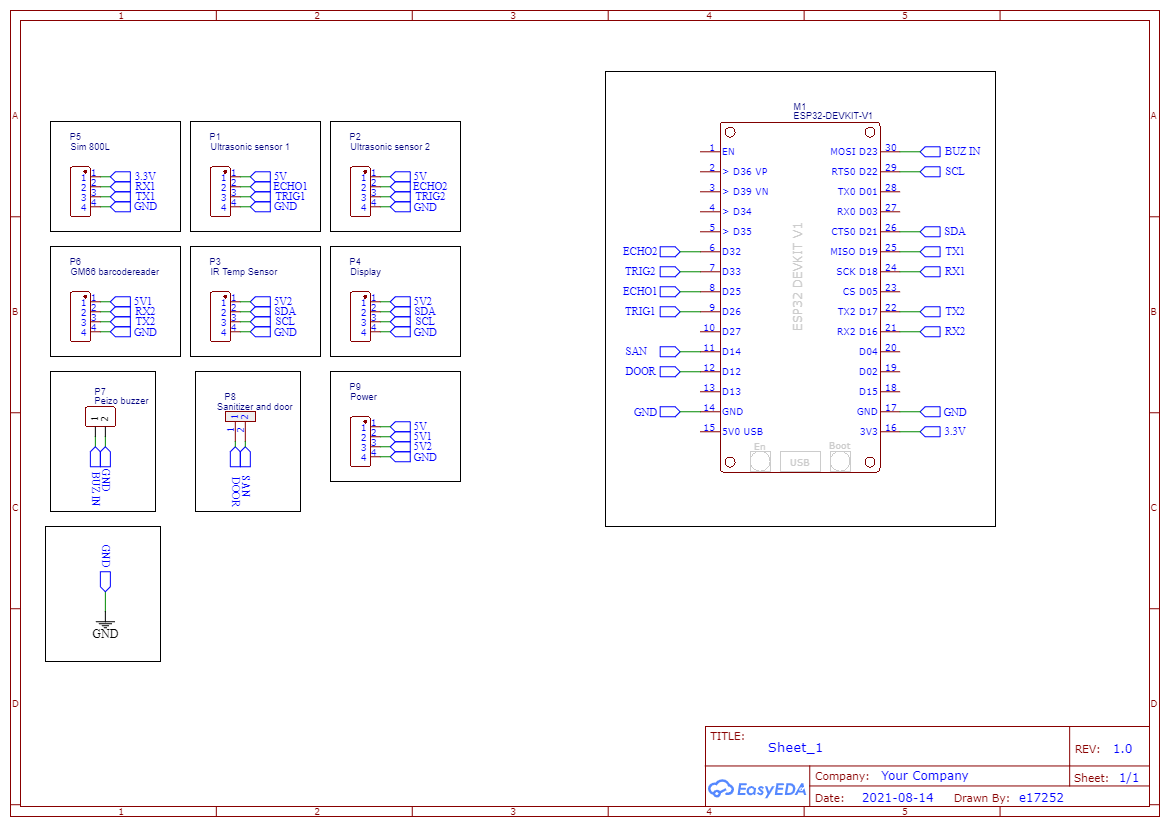
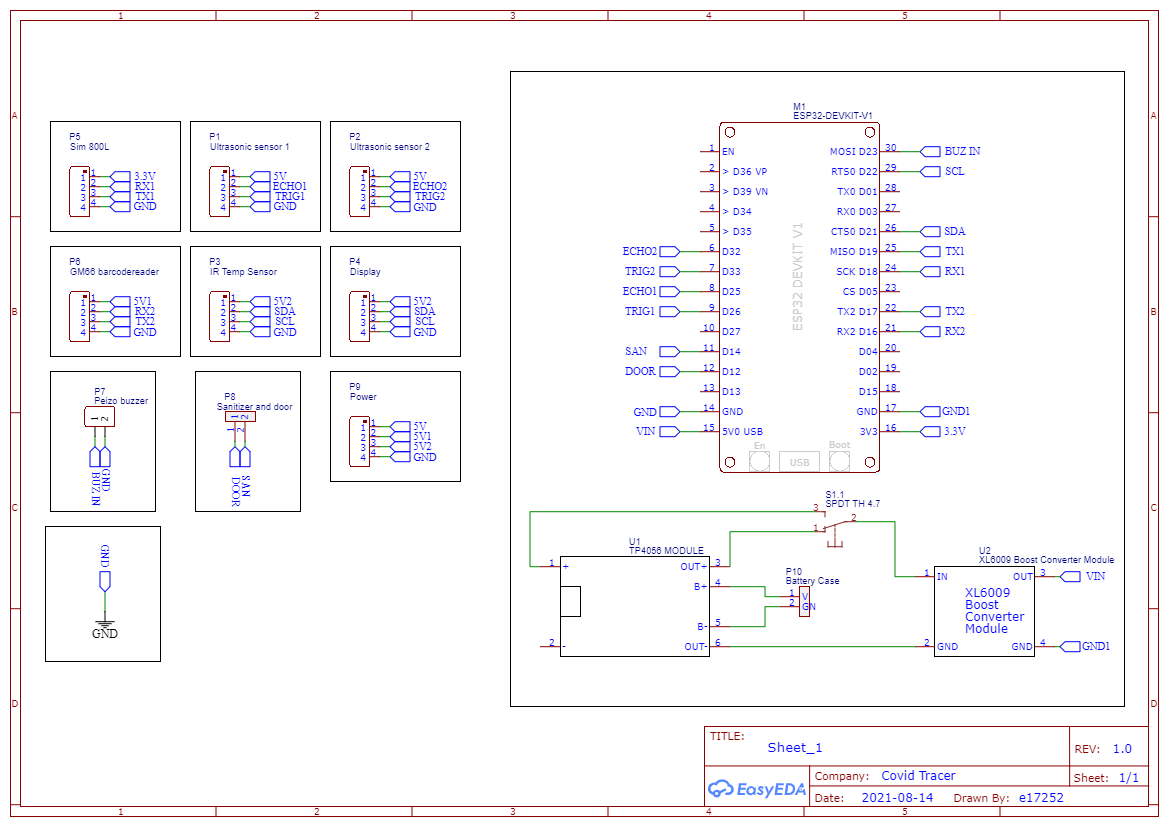
website hardware section updated

diff --git a/docs/hardware.html b/docs/hardware.html
@@ -120,6 +120,33 @@
             <img src="assets/img/solution/circuit.png" alt="world due to covid" class="center-highlevel" />
           </div>      
         </div>
+        <div id ="circuit-diagram" class="row">
+          <div class="well-middle">
+            <h4 class="sec-head"><br>Powr Supply Diagram</h4>
+            <img src="assets/img/solution/power supply circuit diagram.png" alt="world due to covid" class="center-highlevel" />
+            <p>The device works with the dc power supply which is provided by an adapter from the 230V AC current. Usually the device 
+              works with the direct power from the main and it contains a Li-ion battery to supply power to the device at a power failure.
+              This battery will be charged automatically when the device is connected with the main power. In this circuit diagram, the TP4056 Schematic_module
+              has been used to charge the battery. Further the battery will provide a voltage 3.3V - 4.2V . Therefore it should contain a step up booster which
+              will increase the volage drop upto 5V. That is the reason for the step up booster module(XL6009 in the circuit. To shift between direct power
+              and battery power, it contains SPDT switch which will work to change automatically.
+            </p>
+            <div class="col-md-4 col-sm-3 col-xs-8 portfolio-item filter-card">
+              <div class = "well-middle">
+                <img src="assets/img/solution/tp4056.JPG" alt="world due to covid" class="center-highlevel" />
+                <p>TP4056 Battery Charging Module</p>
+              </div>
+            </div>
+            <div class="col-md-4 col-sm-3 col-xs-8 portfolio-item filter-card">
+              <div class = "well-middle">
+                <img src="assets/img/solution/xl6009.JPG" alt="world due to covid" class="center-highlevel" />
+                <p>XL6009 Step up Booster Module</p>
+              </div>
+            </div>
+  
+          </div>      
+        </div>
+
         <div id="schematic-design" class="row">
           <div class="well-middle">
             <h4 class="sec-head"><br>Schematic Design</h4>
@@ -128,14 +155,14 @@
         </div>
         <div id="pcb-design" class="row">
           <h4 class="sec-head"><br>PCB Design</h4>
-          <div class="col-md-6 col-sm-3 col-xs-12 portfolio-item filter-card">
+          <div class="col-md-6 col-sm-4 col-xs-12 portfolio-item filter-card">
             <div class = "well-middle">
               <img src="assets/img/solution/PCB design.png" alt="world due to covid" class="center-highlevel" />
             </div>
           </div>
           <div class="col-md-6 col-sm-4 col-xs-12 portfolio-item filter-card">
             <div class = "well-middle">
-              <img src="assets/img/solution/3d view of pcb.PNG" alt="3d of pcb" class="center-highlevel" />
+              <img src="assets/img/solution/3d view.PNG" alt="3d of pcb" class="center-highlevel" />
             </div>
           </div>
 
